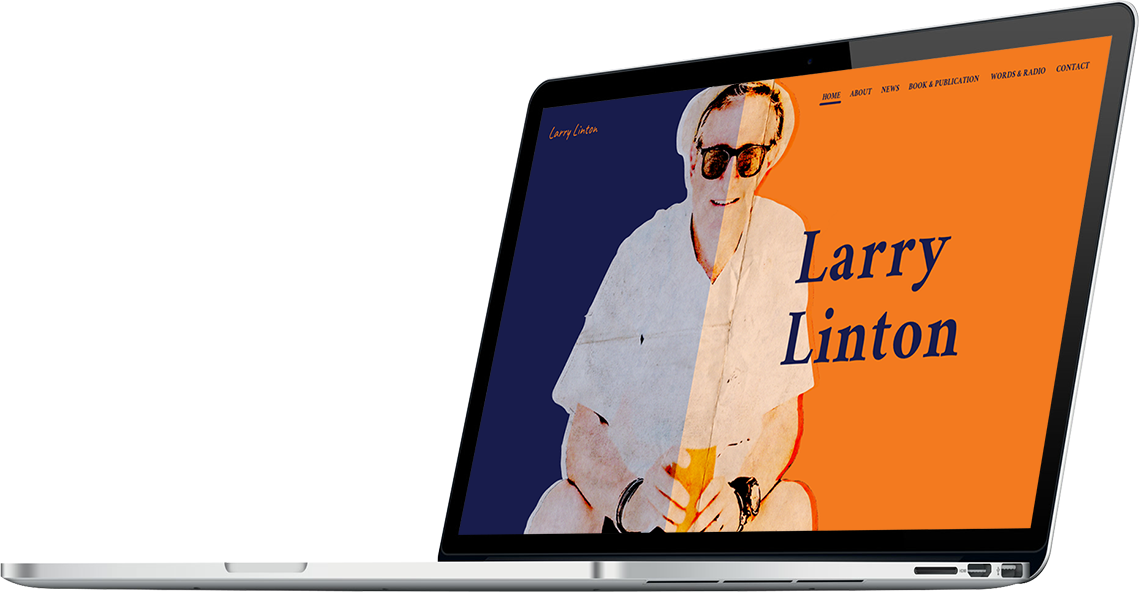
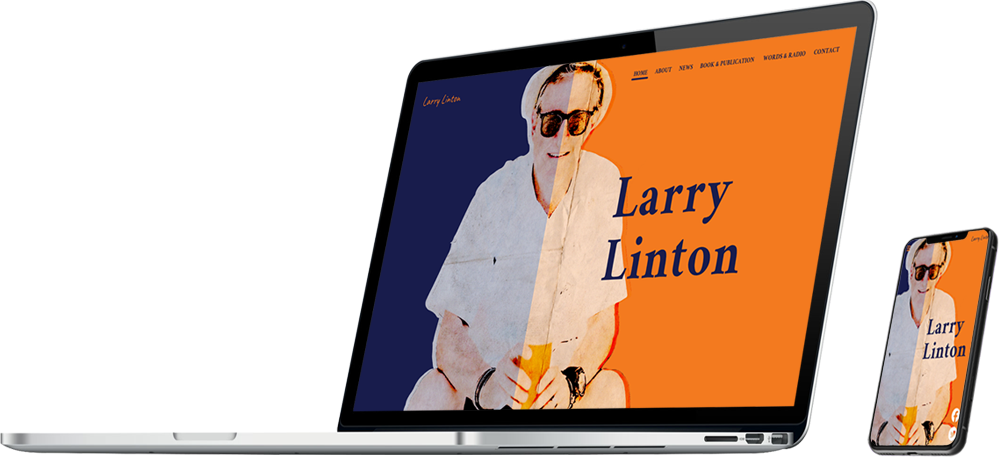
setted up home phots

diff --git a/portfolio/src/components/PicDaruma/PicDarumaElements.js b/portfolio/src/components/PicDaruma/PicDarumaElements.js
@@ -1,86 +1,18 @@
 import styled from "styled-components";
 
+export const Image = styled.img`
+  width: 45%;
+`;
+
 export const PicDarumaContainer = styled.div`
   height: 800px;
   display: flex;
   flex-direction: column;
   justify-content: center;
   align-items: center;
-  background: rgb(219, 237, 242);
-
-  @media screen and (max-width: 480px) {
-    height: 1300px;
-  }
-
+  background: #47a0ff;
+  
   @media screen and (max-width: 768px) {
-    height: 1100px;
-  }
-
-  @media screen and (max-width: 540px) {
     height: 100vh;
   }
-`;
-
-export const PicDarumaWrapper = styled.div`
-  max-width: 1000px;
-  margin: 0 auto;
-  display: grid;
-  grid-template-columns: 1fr 1fr 1fr;
-  align-items: center;
-  grid-gap: 16px;
-  padding: 0 50px;
-
-  @media screen and (max-width: 1000px) {
-    grid-template-columns: 1fr 1fr;
-  }
-
-  @media screen and (max-width: 768px) {
-    grid-template-columns: 1fr;
-    padding: 0 20px;
-  }
-`;
-
-export const PicDarumaCard = styled.div`
-  background: #fff;
-  display: flex;
-  flex-direction: column;
-  justify-content: flex-start;
-  align-items: center;
-  border-radius: 10px;
-  max-height: 340px;
-  padding: 30px;
-  transition: 1s cubic-bezier(0.65, 0, 0.16, 1);
-  box-shadow: 0 1px 3px rgba(0, 0, 0, 0.2);
-
-  &:hover {
-    transform: scale(1.02);
-    transition: 1s cubic-bezier(0.65, 0, 0.16, 1);
-    cursor: pointer;
-  }
-`;
-
-export const PicDarumaIcon = styled.img`
-  height: 160px;
-  width: 160px;
-  margin-bottom: 10px;
-`;
-
-export const PicDarumaH1 = styled.h1`
-  font-size: 2.5rem;
-  color: #fff;
-  margin-bottom: 64px;
-
-  @media screen and (max-width: 480px) {
-    font-size: 2rem;
-  }
-`;
-
-export const PicDarumaH2 = styled.h2`
-  font-size: 1rem;
-  margin-bottom: 10px;
-`;
-
-export const PicDarumaP = styled.p`
-  font-size: 1rem;
-  text-align: center;
 `;

diff --git a/portfolio/src/components/PicVector/PicVectorElements.js b/portfolio/src/components/PicVector/PicVectorElements.js
@@ -1,86 +1,18 @@
 import styled from "styled-components";
 
+export const Image = styled.img`
+  width: 35%;
+`;
+
 export const PicVectorContainer = styled.div`
   height: 800px;
+  background: #ffd96e;
   display: flex;
   flex-direction: column;
   justify-content: center;
   align-items: center;
-  background: rgb(219, 237, 242);
-
-  @media screen and (max-width: 480px) {
-    height: 1300px;
-  }
 
   @media screen and (max-width: 768px) {
-    height: 1100px;
-  }
-
-  @media screen and (max-width: 540px) {
     height: 100vh;
   }
-`;
-
-export const PicVectorWrapper = styled.div`
-  max-width: 1000px;
-  margin: 0 auto;
-  display: grid;
-  grid-template-columns: 1fr 1fr 1fr;
-  align-items: center;
-  grid-gap: 16px;
-  padding: 0 50px;
-
-  @media screen and (max-width: 1000px) {
-    grid-template-columns: 1fr 1fr;
-  }
-
-  @media screen and (max-width: 768px) {
-    grid-template-columns: 1fr;
-    padding: 0 20px;
-  }
-`;
-
-export const PicVectorCard = styled.div`
-  background: #fff;
-  display: flex;
-  flex-direction: column;
-  justify-content: flex-start;
-  align-items: center;
-  border-radius: 10px;
-  max-height: 340px;
-  padding: 30px;
-  transition: 1s cubic-bezier(0.65, 0, 0.16, 1);
-  box-shadow: 0 1px 3px rgba(0, 0, 0, 0.2);
-
-  &:hover {
-    transform: scale(1.02);
-    transition: 1s cubic-bezier(0.65, 0, 0.16, 1);
-    cursor: pointer;
-  }
-`;
-
-export const PicVectorIcon = styled.img`
-  height: 160px;
-  width: 160px;
-  margin-bottom: 10px;
-`;
-
-export const PicVectorH1 = styled.h1`
-  font-size: 2.5rem;
-  color: #fff;
-  margin-bottom: 64px;
-
-  @media screen and (max-width: 480px) {
-    font-size: 2rem;
-  }
-`;
-
-export const PicVectorH2 = styled.h2`
-  font-size: 1rem;
-  margin-bottom: 10px;
-`;
-
-export const PicVectorP = styled.p`
-  font-size: 1rem;
-  text-align: center;
 `;

diff --git a/portfolio/src/components/PicVector/index.js b/portfolio/src/components/PicVector/index.js
@@ -1,44 +1,14 @@
 import React from "react";
-
-import {
-  PicVectorContainer,
-  PicVectorH1,
-  PicVectorWrapper,
-  PicVectorCard,
-  PicVectorH2,
-  PicVectorP,
-} from "./PicVectorElements";
+import { Parallax } from "react-scroll-parallax";
+import { PicVectorContainer, Image } from "./PicVectorElements";
+import Vector from "../../images/Vector.png";
 
 const PicVector = () => {
   return (
     <PicVectorContainer id="vector">
-      <PicVectorH1>Our PicVector</PicVectorH1>
-      <PicVectorWrapper>
-        <PicVectorCard>
-          {/* <PicVectorIcon src={Icon1} /> */}
-          <PicVectorH2>dummy Text</PicVectorH2>
-          <PicVectorP>
-            dummy Text dummy Text dummy Text dummy Text dummy Text dummy Text
-            dummy Text dummy Text
-          </PicVectorP>
-        </PicVectorCard>
-        <PicVectorCard>
-          {/* <PicVectorIcon src={Icon2} /> */}
-          <PicVectorH2>dummy Text</PicVectorH2>
-          <PicVectorP>
-            dummy Text dummy Text dummy Text dummy Text dummy Text dummy Text
-            dummy Text dummy Text
-          </PicVectorP>
-        </PicVectorCard>
-        <PicVectorCard>
-          {/* <PicVectorIcon src={Icon3} /> */}
-          <PicVectorH2>dummy Text</PicVectorH2>
-          <PicVectorP>
-            dummy Text dummy Text dummy Text dummy Text dummy Text dummy Text
-            dummy Text dummy Text
-          </PicVectorP>
-        </PicVectorCard>
-      </PicVectorWrapper>
+      {/* <Parallax y={[-40, 40]} tagOuter="figure"> */}
+        <Image src={Vector} />
+      {/* </Parallax> */}
     </PicVectorContainer>
   );
 };

diff --git a/portfolio/src/components/PicDaruma/index.js b/portfolio/src/components/PicDaruma/index.js
@@ -1,41 +1,14 @@
 import React from "react";
-
-import {
-  PicDarumaContainer,
-  PicDarumaH1,
-  PicDarumaWrapper,
-  PicDarumaCard,
-  PicDarumaH2,
-  PicDarumaP,
-} from "./PicDarumaElements";
+import { Parallax } from "react-scroll-parallax";
+import { PicDarumaContainer, Image } from "./PicDarumaElements";
+import Daruma from "../../images/Daruma.png";
 
 const PicDaruma = () => {
   return (
     <PicDarumaContainer id="daruma">
-      <PicDarumaH1>Our PicDaruma</PicDarumaH1>
-      <PicDarumaWrapper>
-        <PicDarumaCard>
-          <PicDarumaH2>dummy Text</PicDarumaH2>
-          <PicDarumaP>
-            dummy Text dummy Text dummy Text dummy Text dummy Text dummy Text
-            dummy Text dummy Text
-          </PicDarumaP>
-        </PicDarumaCard>
-        <PicDarumaCard>
-          <PicDarumaH2>dummy Text</PicDarumaH2>
-          <PicDarumaP>
-            dummy Text dummy Text dummy Text dummy Text dummy Text dummy Text
-            dummy Text dummy Text
-          </PicDarumaP>
-        </PicDarumaCard>
-        <PicDarumaCard>
-          <PicDarumaH2>dummy Text</PicDarumaH2>
-          <PicDarumaP>
-            dummy Text dummy Text dummy Text dummy Text dummy Text dummy Text
-            dummy Text dummy Text
-          </PicDarumaP>
-        </PicDarumaCard>
-      </PicDarumaWrapper>
+      {/* <Parallax y={[-40, 40]} tagOuter="figure"> */}
+        <Image src={Daruma} />
+      {/* </Parallax> */}
     </PicDarumaContainer>
   );
 };

diff --git a/portfolio/src/components/PicLarry/PicLarryElements.js b/portfolio/src/components/PicLarry/PicLarryElements.js
@@ -1,5 +1,9 @@
 import styled from "styled-components";
 
+export const Image = styled.img`
+  width: 45%;
+`;
+
 export const PicLarryContainer = styled.div`
   height: 800px;
   display: flex;
@@ -8,30 +12,13 @@ export const PicLarryContainer = styled.div`
   align-items: center;
   background: linear-gradient(
     29deg,
-    #181c4c 0%,
-    #181c4c 50%,
-    #f37a1f 50%,
-    #f37a1f 100%
+    #2e3170 0%,
+    #2e3170 50%,
+    #ff8f3b 50%,
+    #ff8f3b 100%
   );
-
-  @media screen and (max-width: 480px) {
-    height: 1300px;
-  }
-
+  
   @media screen and (max-width: 768px) {
-    height: 1100px;
-  }
-
-  @media screen and (max-width: 540px) {
     height: 100vh;
   }
 `;
-
-export const Image = styled.img`
-  width: 50%;
-
-  /* @media screen and (min-width: 1440px) {
-    min-width: 1440px;
-  } */
-  }
-  `;

diff --git a/portfolio/src/components/PicLarry/index.js b/portfolio/src/components/PicLarry/index.js
@@ -1,12 +1,14 @@
 import React from "react";
-
+import { Parallax } from "react-scroll-parallax";
 import { PicLarryContainer, Image } from "./PicLarryElements";
 import Larry from "../../images/Larry.png";
 
 const PicLarry = () => {
   return (
     <PicLarryContainer id="larry">
-      <Image src={Larry} />
+      {/* <Parallax y={[-40, 40]} tagOuter="figure"> */}
+        <Image src={Larry} />
+      {/* </Parallax> */}
     </PicLarryContainer>
   );
 };
